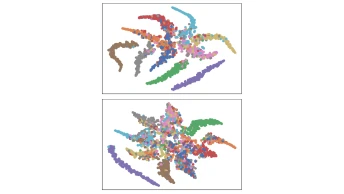
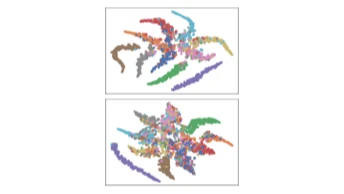
Refine legacy publication thumbnails
- Add missing thumbnails for legacy publications.
- Add consistent whitespace around dense visual assets.
- Update publication metadata and remove the retired entry.

Changed region(s): [[0.2907, 0.0, 0.6977, 0.9897]]

diff --git a/index.html b/index.html
@@ -537,7 +537,7 @@
         </div>
       </li>
       <li class="pub-item" data-topics="multimodal-generation" data-year="2023" data-venue="ICCV">
-        <div class="pub-thumb" aria-hidden="true"><img src="static/img/pubs/masked-generation.webp" alt="" loading="lazy" decoding="async"></div>
+        <div class="pub-thumb pub-thumb--padded" aria-hidden="true"><img src="static/img/pubs/masked-generation.webp" alt="" loading="lazy" decoding="async"></div>
         <div>
           <p class="pub-title">Text-Conditioned Sampling Framework for Text-to-Image Generation with Masked Generative Models</p>
           <p class="pub-meta">Jaewoong Lee, Sangwon Jang, Jaehyeong Jo, Jaehong Yoon, Yunji Kim, <strong>Jin-Hwa Kim</strong>, Jung-Woo Ha, Sung Ju Hwang</p>
@@ -633,7 +633,7 @@
         </div>
       </li>
       <li class="pub-item" data-topics="vision-language" data-year="2022" data-venue="EMNLP">
-        <div class="pub-thumb" aria-hidden="true"></div>
+        <div class="pub-thumb" aria-hidden="true"><img src="static/img/pubs/modal-specific-query.webp" alt="" loading="lazy" decoding="async"></div>
         <div>
           <p class="pub-title">Modal-Specific Pseudo Query Generation for Video Corpus Moment Retrieval</p>
           <p class="pub-meta">Minjoon Jung, Seongho Choi, Joochan Kim, <strong>Jin-Hwa Kim</strong><sup>†</sup>, Byoung-Tak Zhang<sup>†</sup></p>
@@ -668,10 +668,10 @@
         </div>
       </li>
       <li class="pub-item" data-topics="ml-theory" data-year="2022" data-venue="NeurIPS">
-        <div class="pub-thumb" aria-hidden="true"></div>
+        <div class="pub-thumb" aria-hidden="true"><img src="static/img/pubs/cross-domain-fsl.webp" alt="" loading="lazy" decoding="async"></div>
         <div>
           <p class="pub-title">Understanding Cross-Domain Few-Shot Learning Based on Domain Similarity and Few-Shot Difficulty</p>
-          <p class="pub-meta">Jaehoon Oh, Sungnyun Kim, Namgyu Ho, <strong>Jin-Hwa Kim</strong>, Hwanjun Song, Se-Young Yun</p>
+          <p class="pub-meta">Jaehoon Oh*, Sungnyun Kim*, Namgyu Ho*, <strong>Jin-Hwa Kim</strong>, Hwanjun Song, Se-Young Yun</p>
           <p class="pub-venue">NeurIPS 2022</p>
           <div class="pub-footer">
             <div class="pub-links"><a class="pub-btn" href="https://arxiv.org/abs/2202.01339" target="_blank">arXiv</a></div>
@@ -692,7 +692,7 @@
         </div>
       </li>
       <li class="pub-item" data-topics="ml-theory" data-year="2022">
-        <div class="pub-thumb" aria-hidden="true"></div>
+        <div class="pub-thumb" aria-hidden="true"><img src="static/img/pubs/kd-gender-bias.webp" alt="" loading="lazy" decoding="async"></div>
         <div>
           <p class="pub-title">Why Knowledge Distillation Amplifies Gender Bias and How to Mitigate from the Perspective of DistilBERT</p>
           <p class="pub-meta">Jaimeen Ahn, Hwaran Lee, <strong>Jin-Hwa Kim</strong>, Alice Oh</p>
@@ -704,7 +704,7 @@
         </div>
       </li>
       <li class="pub-item" data-topics="ml-theory" data-year="2022" data-venue="IJCAI">
-        <div class="pub-thumb" aria-hidden="true"></div>
+        <div class="pub-thumb" aria-hidden="true"><img src="static/img/pubs/logit-mixing.webp" alt="" loading="lazy" decoding="async"></div>
         <div>
           <p class="pub-title">Logit Mixing Training for More Reliable and Accurate Prediction</p>
           <p class="pub-meta">Duhyeon Bang, Kyungjune Baek, Jiwoo Kim, Yunho Jeon, <strong>Jin-Hwa Kim</strong>, Jiwon Kim, Jongwuk Lee, Hyunjung Shim</p>
@@ -754,7 +754,7 @@
         <div class="pub-thumb" aria-hidden="true"><img src="static/img/pubs/codraw.webp" alt="" loading="lazy" decoding="async"></div>
         <div>
           <p class="pub-title">CoDraw: Collaborative Drawing as a Testbed for Grounded Goal-driven Communication</p>
-          <p class="pub-meta"><strong>Jin-Hwa Kim</strong>, Nikita Kitaev, Xinlei Chen, Marcus Rohrbach, Byoung-Tak Zhang, Yuandong Tian, Dhruv Batra, Devi Parikh</p>
+          <p class="pub-meta"><strong>Jin-Hwa Kim*</strong>, Nikita Kitaev*, Xinlei Chen, Marcus Rohrbach, Byoung-Tak Zhang, Yuandong Tian, Dhruv Batra, Devi Parikh</p>
           <p class="pub-venue">ACL 2019</p>
           <div class="pub-footer">
             <div class="pub-links"><a class="pub-btn" href="https://arxiv.org/abs/1712.05558" target="_blank">arXiv</a></div>
@@ -763,10 +763,10 @@
         </div>
       </li>
       <li class="pub-item" data-topics="vision-language" data-year="2019">
-        <div class="pub-thumb" aria-hidden="true"></div>
+        <div class="pub-thumb" aria-hidden="true"><img src="static/img/pubs/relational-bilinear.webp" alt="" loading="lazy" decoding="async"></div>
         <div>
           <p class="pub-title">Relational Bilinear Attention Networks with the Assumption of Linear Compositionality</p>
-          <p class="pub-meta"><strong>Jin-Hwa Kim</strong>, Jaehyun Jun, Byoung-Tak Zhang</p>
+          <p class="pub-meta"><strong>Jin-Hwa Kim</strong>, Jaesun Park, Jaehyun Jun, Jiwon Kim</p>
           <p class="pub-venue">CVPR 2019 Workshop (VQA &amp; Dialog)</p>
           <div class="pub-footer">
             <div class="pub-topics"><button type="button" class="pub-topic" data-topic="vision-language">Vision &amp; Language</button></div>
@@ -822,7 +822,7 @@
         </div>
       </li>
       <li class="pub-item" data-topics="vision-language" data-year="2017">
-        <div class="pub-thumb" aria-hidden="true"></div>
+        <div class="pub-thumb" aria-hidden="true"><img src="static/img/pubs/large-scale-rnn.webp" alt="" loading="lazy" decoding="async"></div>
         <div>
           <p class="pub-title">Large-Scale Text Classification with Deep Neural Networks</p>
           <p class="pub-meta">Hwiyeol Jo, <strong>Jin-Hwa Kim</strong>, Kyung-Min Kim, Jeong-Ho Chang, Jae-Hong Eom, Byoung-Tak Zhang</p>
@@ -868,19 +868,8 @@
           </div>
         </div>
       </li>
-      <li class="pub-item" data-topics="vision-language" data-year="2016">
-        <div class="pub-thumb" aria-hidden="true"></div>
-        <div>
-          <p class="pub-title">Large-scale Text Classification with Recurrent Neural Networks</p>
-          <p class="pub-meta">Hwiyeol Jo, <strong>Jin-Hwa Kim</strong>, Kyung-Min Kim, Jeong-Ho Chang, Jae-Hong Eom, Byoung-Tak Zhang</p>
-          <p class="pub-venue">Korea Computer Congress 2016</p>
-          <div class="pub-footer">
-            <div class="pub-topics"><button type="button" class="pub-topic" data-topic="vision-language">Vision &amp; Language</button></div>
-          </div>
-        </div>
-      </li>
       <li class="pub-item" data-topics="vision-language multimodal-generation" data-year="2016">
-        <div class="pub-thumb" aria-hidden="true"></div>
+        <div class="pub-thumb" aria-hidden="true"><img src="static/img/pubs/active-vision.webp" alt="" loading="lazy" decoding="async"></div>
         <div>
           <p class="pub-title">Active Vision from Image-Text Multimodal System Learning</p>
           <p class="pub-meta"><strong>Jin-Hwa Kim</strong>, Byoung-Tak Zhang</p>
@@ -891,7 +880,7 @@
         </div>
       </li>
       <li class="pub-item" data-topics="ml-theory" data-year="2016">
-        <div class="pub-thumb" aria-hidden="true"></div>
+        <div class="pub-thumb" aria-hidden="true"><img src="static/img/pubs/trimzero.webp" alt="" loading="lazy" decoding="async"></div>
         <div>
           <p class="pub-title">TrimZero: A Torch Recurrent Module for Efficient Natural Language Processing</p>
           <p class="pub-meta"><strong>Jin-Hwa Kim</strong>, Jeonghee Kim, Jung-Woo Ha, Byoung-Tak Zhang</p>

diff --git a/static/css/style.css b/static/css/style.css
@@ -499,6 +499,13 @@
       linear-gradient(to top right, transparent calc(50% - 0.5px), var(--line-soft) calc(50% - 0.5px), var(--line-soft) calc(50% + 0.5px), transparent calc(50% + 0.5px));
   }
   .pub-thumb img { width: 100%; height: 100%; object-fit: cover; display: block; filter: var(--thumb-filter); }
+  .pub-thumb--padded {
+    box-sizing: border-box;
+    padding: 4px 8px;
+    background: #fff;
+    background-image: none;
+  }
+  .pub-thumb--padded img { object-fit: contain; }
   .pub-title { font-size: 16px; font-weight: 700; margin: 0 0 6px; line-height: 1.3; }
   .pub-item[data-featured="true"] .pub-title::before { content: "★ "; color: var(--gold); }
   .pub-meta { color: var(--ink-soft); font-size: 13px; line-height: 1.15; margin: 0; }
